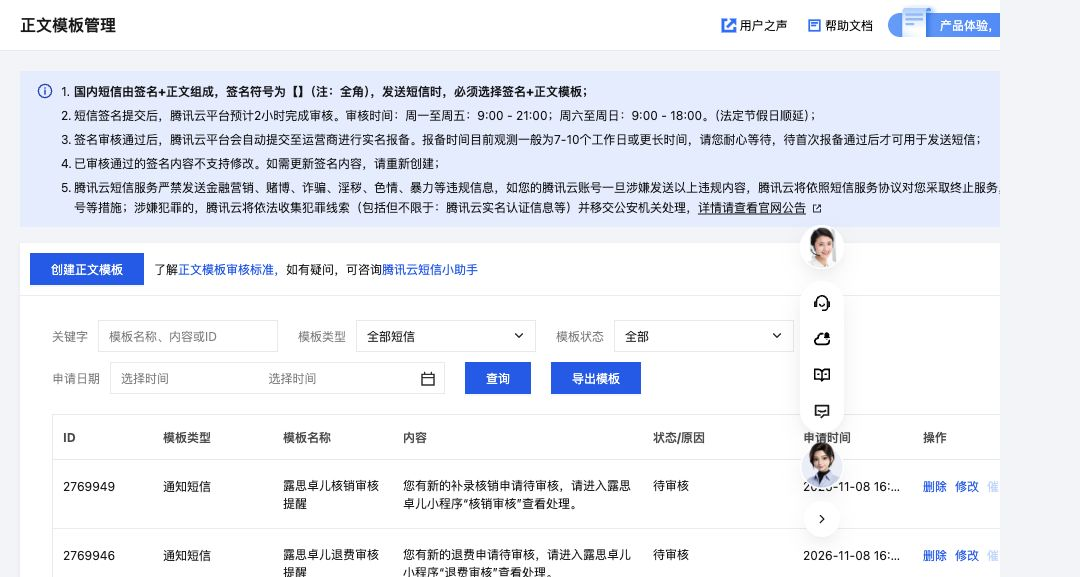
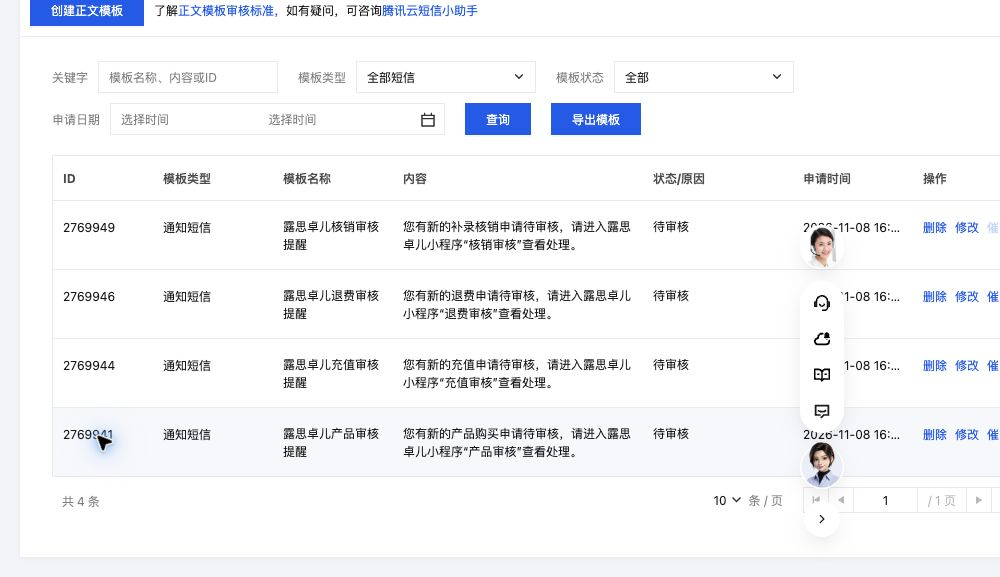
Record verified 0.3.64 export hotfix release and four SMS templates

diff --git a/PROJECT_CONTEXT.md b/PROJECT_CONTEXT.md
@@ -1014,3 +1014,5 @@ pnpm install --frozen-lockfile
 - 2026-11-08 导出故障修复：查询工单去重只使用工单主键，不能用客户或老师编号；同一老师／客户的多笔充值、退费、核销必须全部保留。客户按客户编号、每日名单按老师编号、产品按来源加真实明细行编号校验；真实重复或缺失仍拒绝。产品“全部”筛选不得把ALL传给数字编号校验。换账号／筛选／卸载的失效检查持续到字体加载和文件写入完成、打开之前。
 - 2026-11-08 导出表格对齐最新决定：Web与小程序生成的非工单PDF、Excel表格正文及对应表头统一右对齐，保留既有适中字号、自适应列宽与单行文字；标题、分组说明、日报段落不作为表格单元格强制右对齐。此项仅调整导出文件，不改屏幕表格。修正小组总览误露出的导出入口并拒绝旧事件调用，继续仅允许组长导出当前成员打卡与日报。
 - 2026-11-08 短信控制台配置：已提交签名“露思卓儿”（733011）及产品审核2769941、充值审核2769944、退费审核2769946、核销审核2769949四份固定通知模板，核销正文明确补录待审。提交后状态为待审核；企业资质通过不等于签名、正文模板及运营商报备完成。默认四类关闭、实际发送未开启；不得提前宣称短信已上线或发送历史待审积压。
+
+- 2026-11-08 导出故障发布接续：源码dc70f7504b4f7e73228720589dabd2c074b6e278已推送；Web15个范围内资产安全发布并公开字节校验一致。小程序0.3.64开发版取得官方最终上传回执，主包1,735,859字节、总包3,563,272字节，297份源码及原配置不变，未重启IDE。808项测试与179项隔离数据库检查通过；无新SQL、数据库写入或云函数改动。短信四模板均已提交待审，实际发送未启用。体验版设置此前受自动安全审查阻止，本次未设体验、提审或正式发布。

diff --git a/docs/reviews/2026-11-08-export-identity-and-sms.md b/docs/reviews/2026-11-08-export-identity-and-sms.md
@@ -4,9 +4,9 @@
 
 另修复产品ALL筛选的数字编号错误及字体加载／写文件后的过期响应打开问题。小组总览的误露出导出入口移除，保留既有成员考勤日报导出权限。
 
-PDF和XLSX表格正文、对应表头右对齐，标题与日报正文保持正常段落。生成30个查询、每日和总览样板；PDF文字均在页内，14份XLSX逐个导入并渲染，所有表格单元格右对齐且不换行。手机390同一老师／客户8笔充值与iPad834的8笔核销实际调用微信文件写入和打开接口，PDF、Excel均成功。
+PDF和XLSX表格正文、对应表头右对齐，标题与日报正文保持正常段落。生成30个查询、每日和总览样板；16份PDF共22页全部渲染，文字均在页内，14份XLSX逐个导入并渲染，所有表格单元格右对齐且不换行。手机390同一老师／客户8笔充值与iPad834的8笔核销实际调用微信文件写入和打开接口，PDF、Excel均成功。
 
-808项测试及179项隔离数据库检查通过。此次无SQL，无数据库业务写入，无云函数修改。Web和开发版0.3.64发布回执在完成后补充。
+808项测试及179项隔离数据库检查通过。此次无SQL，无数据库业务写入，无云函数修改。Web15个范围内文件已通过--safe --verify发布，公开地址SHA-256全部一致；保留发布前备份，无prune。0.3.64开发版取得官方最终上传回执，主包1,735,859字节、总包3,563,272字节；297份源码和原项目配置前后不变，IDE未重启。未设体验版、提审或正式发布；微信体验版后台此前被自动安全审查阻止，未绕过。源码dc70f7504b4f7e73228720589dabd2c074b6e278已推送。回执：deployments/2026-11-08-export-identity-verification.json。
 
 ## 四类短信模板
 

diff --git a/miniprogram-app/releases/0.3.64.md b/miniprogram-app/releases/0.3.64.md
@@ -8,4 +8,4 @@
 
 后台沿用已上线staffAccount v105和faceRecognition v143，无新SQL或云函数发布。短信模板另行提交待审核，实际发送未启用。
 
-发布状态待官方上传回执补充；不能以源码推送代替开发版上传、体验版或正式发布。
+0.3.64已取得官方最终上传回执：主包1,735,859字节，总包3,563,272字节，297份源码及原项目配置前后不变，复用IDE未重启。Web15个范围内文件安全发布、公开SHA-256回读全部匹配。源码dc70f7504b4f7e73228720589dabd2c074b6e278已推送。无新SQL或云函数上传；未设为体验版、未提审或正式发布。微信后台体验版操作此前被自动安全审查拒绝，没有绕过。详见deployments/2026-11-08-export-identity-verification.json。
